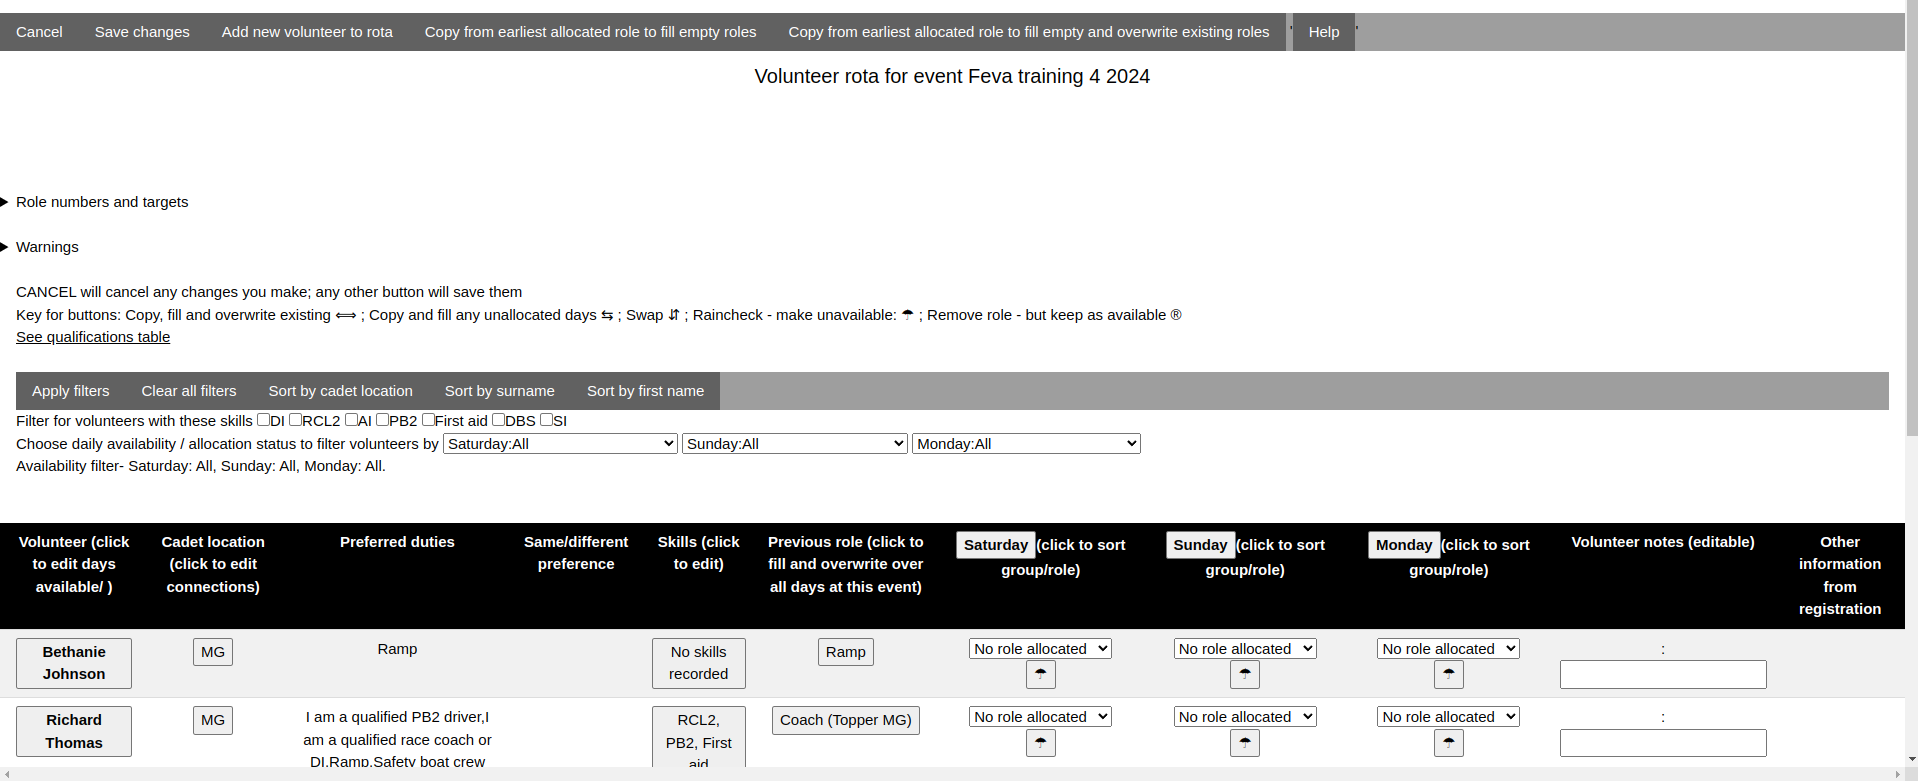
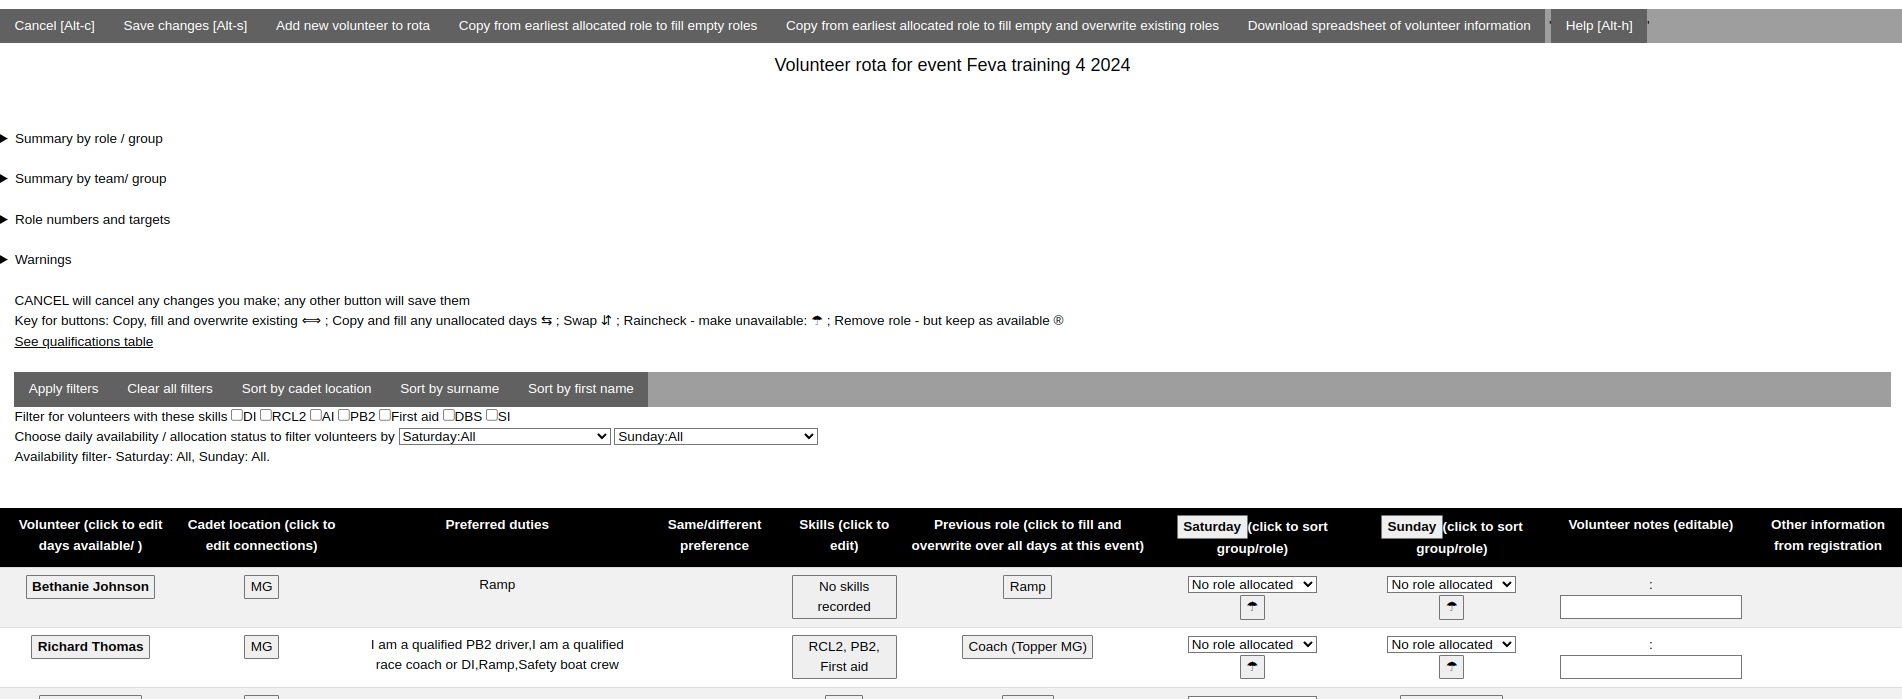
useful little volunteer download fix#23

diff --git a/docs/volunteer_rota_help.md b/docs/volunteer_rota_help.md
@@ -31,6 +31,42 @@ Each row shows a volunteer who has been imported to the event automatically. You
 - For each day the role they are doing, and the buttons you can use to give them roles.
 - Notes and other information from registration
 
+# Typical workflow
+
+A typical workflow for a training weekend would be: 
+
+- allocate instructors (DI, RCL and AI)
+- allocate rescue boat drivers
+- allocate other key people, eg ramp spotters and welfare people
+- allocate lake helpers
+- allocate ramp including ramp lead, and rescue crew
+
+This would be broadly similar for a racing weekend (although the rota here tends to be a bit ad hoc on the day):
+
+- allocate lead positions: Race officer, Ramp lead
+- allocate bridge (as advised by race officer) 
+- allocate instructors (DI, RCL and AI)
+- allocate rescue boat drivers
+- allocate ramp
+
+For Cadet Week we'd do things slightly differently:
+
+- allocate lead positions: Race officer, Ramp lead, Safety lead, Galley lead, SI
+- allocate Bridge (based on a list provided by the race officer and/or what people have put on their form)
+- allocate instructors (DI, RCL and AI)
+- allocate rescue boat drivers
+- allocate Galley in co-ordination with Galley lead
+- allocate other key people, eg ramp spotters and welfare people
+- allocate lake helpers
+- allocate ramp and rescue crew
+
+Given the workflow above it can be useful to see what kinds of volunteers are available with a given skills, and which haven't yet been allocated. You can use [skills filtering](#skills-filtering) and [allocation/available filtering](#availabilty--allocation-filtering) to do this.
+
+- for instructors: filter to see only AI, DI and RCL2
+- for safety boat drivers: filter to see only those with PB2, and filter for unallocated and available (so it excludes the rescue boat drivers)
+
+At each stage it can also be useful to share the list of volunteers with others, the easiest way of doing this is to click the 'Download spreadsheet of volunteer information', which will give you detailed information on who is available with what skill, given the filtering you have already done.
+
 # Allocating roles and groups
 
 ## Giving someone a role
@@ -313,4 +349,4 @@ You can delete the connection, or add a new one by choosing from the dropdown li
 - You can see more information about the previous roles a volunteer performed by clicking on their name; click cancel to go back.
 - The 'other information' from registration column on the far right can be useful if volunteers have told you about their availability in more detail.
 - You can enter notes about the volunteer in the notes column; typically this would be around issues or finer preferences on roles, or availability constraints not captured by just which day they are around. Remember under GDPR they have the right to see them, so be careful!
-
+- Click on 'download spreadsheet of volunteer information' in the navigation bar to get a spreadsheet version of what you can see on the screen; useful for sharing with other people without a full on report.
